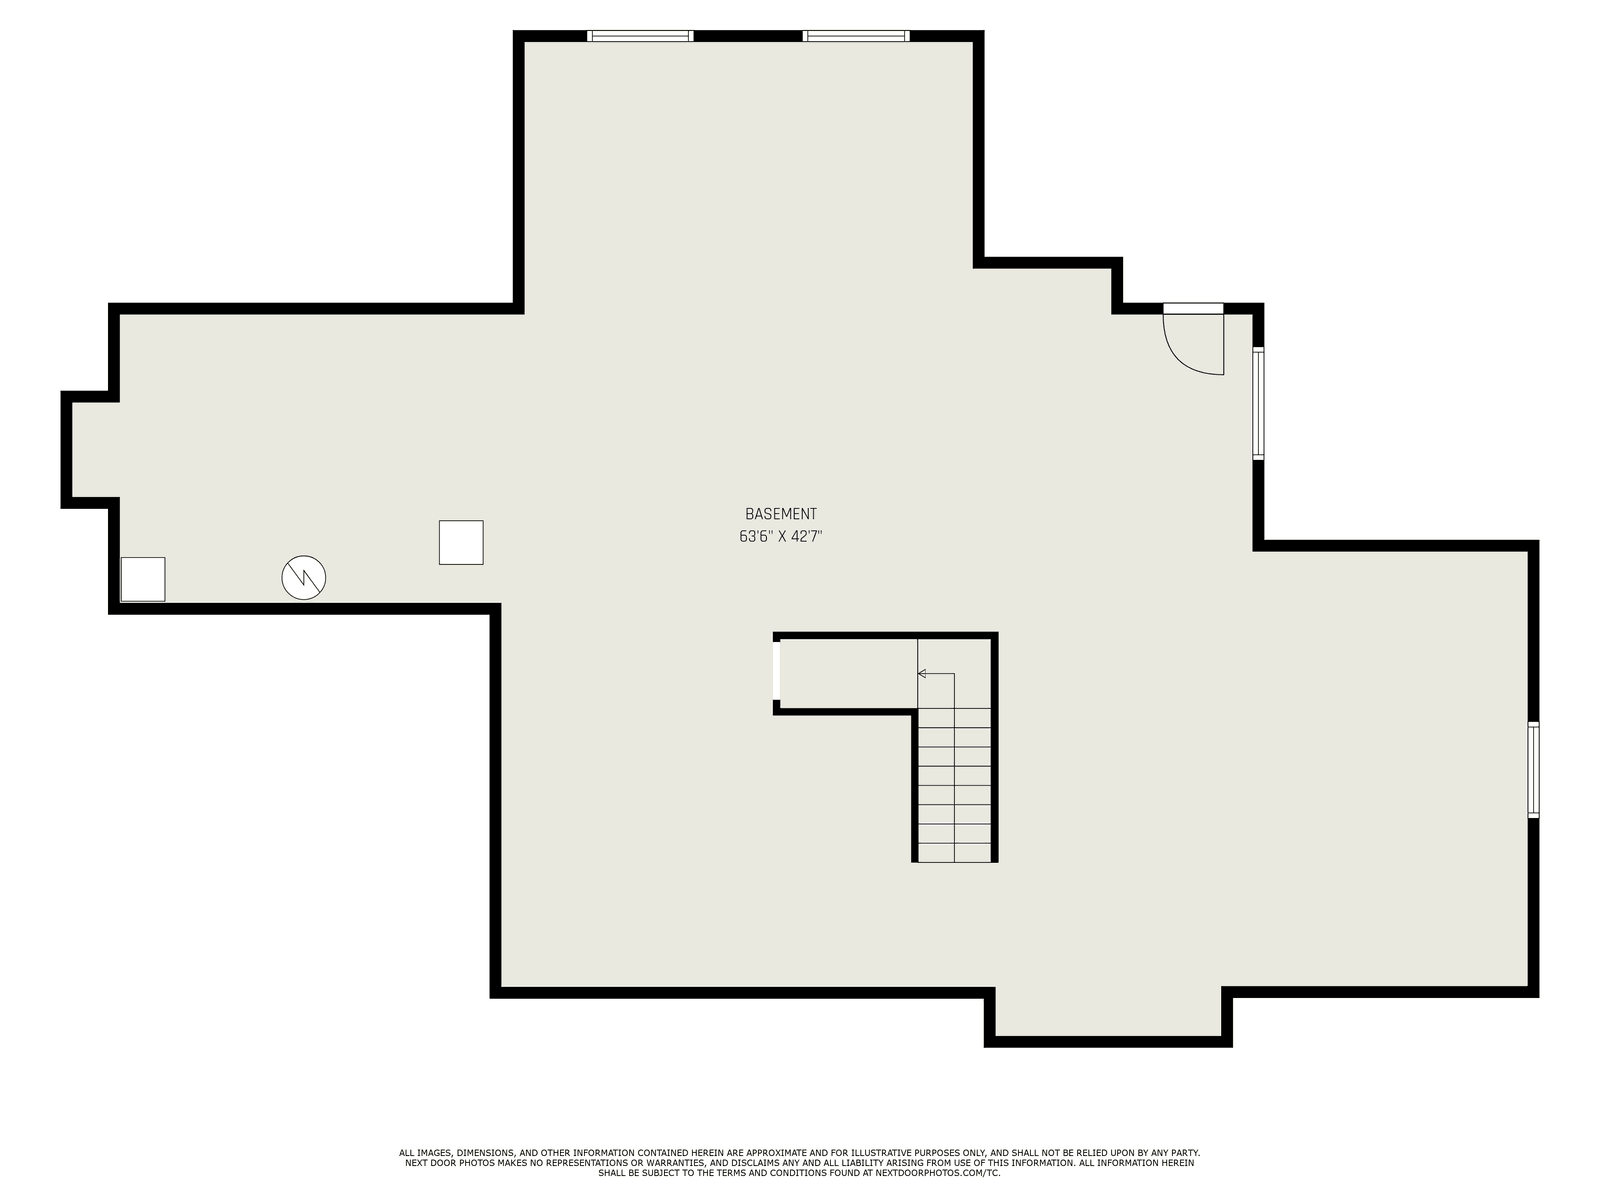
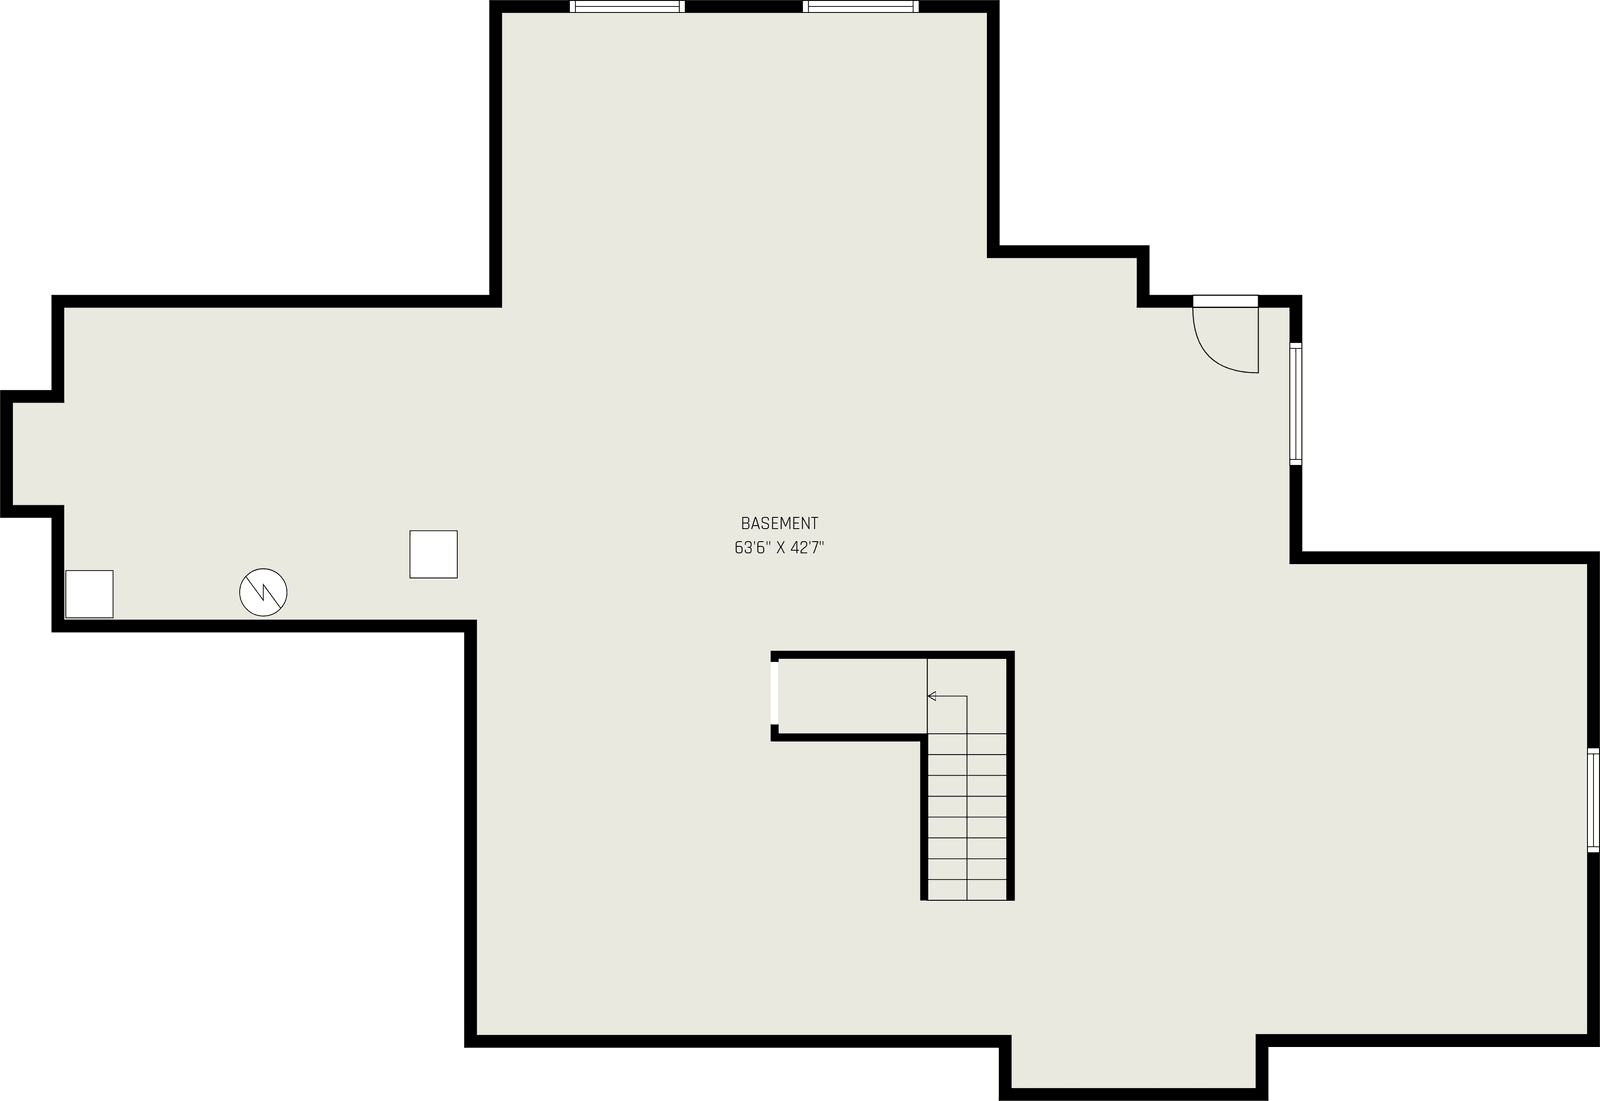
Say the price excludes the lot, and crop the photographer's footer
Leavitt confirmed the starting prices do not include the homesite, so the note
beside every price says so. It is the first thing a buyer assumes either way,
and assuming wrong is the difference between these figures and the real cost of
the house - worth a clause, not an inference.

Leavitt also confirmed they bought the floor plan photography outright, so the
Next Door Photos footer comes off. Nothing special was needed: those pages now
crop like every other sheet, and findDrawing keeps the drawing and drops the
furniture, footer included. `crop: false` is left only on the elevation, which
is a photograph with nothing to strip.

Checked the result rather than trusting the heights: the footer is gone from all
three sheets and the plans themselves are untouched.

Claude-Session: https://claude.ai/code/session_01H8a1CBUfLAD6mJjdsHtx4E

Changed region(s): [[0.0, 0.0, 1.0, 1.0], [0.4688, 0.4015, 0.5, 0.4941]]

diff --git a/plans/the-storyteller.html b/plans/the-storyteller.html
@@ -140,7 +140,7 @@
 
             <figure class="mb-16">
                 <h2 class="text-2xl md:text-3xl font-serif text-[#0f172a] mb-6">Basement Floor Plan</h2>
-                <picture class="contents"><source srcset="/plans/img/the-storyteller-floor-1.webp" type="image/webp"><img src="/plans/img/the-storyteller-floor-1.png" alt="The Storyteller basement floor plan drawing" width="1600" height="1200" loading="lazy" decoding="async" class="w-full h-auto bg-white border border-gray-200"></picture>
+                <picture class="contents"><source srcset="/plans/img/the-storyteller-floor-1.webp" type="image/webp"><img src="/plans/img/the-storyteller-floor-1.png" alt="The Storyteller basement floor plan drawing" width="1600" height="1101" loading="lazy" decoding="async" class="w-full h-auto bg-white border border-gray-200"></picture>
                 <figcaption class="mt-3 text-sm text-gray-500 flex flex-wrap items-baseline justify-between gap-x-6 gap-y-1">
                     <span>Dashed outlines mark optional features available for this plan.</span>
                     <!-- At phone width the drawing is ~360px wide and the room labels are
@@ -155,7 +155,7 @@
 
             <figure class="mb-16">
                 <h2 class="text-2xl md:text-3xl font-serif text-[#0f172a] mb-6">First Floor Plan</h2>
-                <picture class="contents"><source srcset="/plans/img/the-storyteller-floor-2.webp" type="image/webp"><img src="/plans/img/the-storyteller-floor-2.png" alt="The Storyteller first floor plan drawing" width="1600" height="1200" loading="lazy" decoding="async" class="w-full h-auto bg-white border border-gray-200"></picture>
+                <picture class="contents"><source srcset="/plans/img/the-storyteller-floor-2.webp" type="image/webp"><img src="/plans/img/the-storyteller-floor-2.png" alt="The Storyteller first floor plan drawing" width="1600" height="1222" loading="lazy" decoding="async" class="w-full h-auto bg-white border border-gray-200"></picture>
                 <figcaption class="mt-3 text-sm text-gray-500 flex flex-wrap items-baseline justify-between gap-x-6 gap-y-1">
                     <span>Dashed outlines mark optional features available for this plan.</span>
                     <!-- At phone width the drawing is ~360px wide and the room labels are
@@ -170,7 +170,7 @@
 
             <figure class="mb-16">
                 <h2 class="text-2xl md:text-3xl font-serif text-[#0f172a] mb-6">Second Floor Plan</h2>
-                <picture class="contents"><source srcset="/plans/img/the-storyteller-floor-3.webp" type="image/webp"><img src="/plans/img/the-storyteller-floor-3.png" alt="The Storyteller second floor plan drawing" width="1600" height="1200" loading="lazy" decoding="async" class="w-full h-auto bg-white border border-gray-200"></picture>
+                <picture class="contents"><source srcset="/plans/img/the-storyteller-floor-3.webp" type="image/webp"><img src="/plans/img/the-storyteller-floor-3.png" alt="The Storyteller second floor plan drawing" width="1600" height="1233" loading="lazy" decoding="async" class="w-full h-auto bg-white border border-gray-200"></picture>
                 <figcaption class="mt-3 text-sm text-gray-500 flex flex-wrap items-baseline justify-between gap-x-6 gap-y-1">
                     <span>Dashed outlines mark optional features available for this plan.</span>
                     <!-- At phone width the drawing is ~360px wide and the room labels are

diff --git a/plans/index.html b/plans/index.html
@@ -71,10 +71,7 @@
             Every sheet shows the optional features available for that model in dashed outline:
             in-law suites, conservatories, sunrooms, extended garages and finished lower levels.
         </p>
-        <!-- REVIEW: confirm whether these starting prices include the homesite. It is the
-             first question a buyer asks, and the sheet they came from does not say, so the
-             wording below deliberately claims neither. -->
-        <p class="text-sm text-gray-500 max-w-2xl mb-14">Starting prices are for the home without any optional features added, and are current as of September 2026. Talk to us about your homesite and we will price the version you actually want to build.</p>
+        <p class="text-sm text-gray-500 max-w-2xl mb-14">Starting prices are for the home without any optional features added, and do not include the homesite. Current as of September 2026. Talk to us about your homesite and we will price the version you actually want to build.</p>
 
         <h2 class="sr-only">Available plans</h2>
         <div class="grid grid-cols-1 sm:grid-cols-2 lg:grid-cols-3 gap-6">

diff --git a/plans/the-expressionist-i.html b/plans/the-expressionist-i.html
@@ -69,7 +69,7 @@
             <span class="text-[11px] font-bold uppercase tracking-[0.2em] text-gray-500 block mb-1">Starting price</span>
             <span class="text-3xl md:text-4xl font-light text-[#0f172a]">From $1,303,777</span>
         </p>
-        <p class="text-sm text-gray-500 max-w-2xl mb-12">Starting prices are for the home without any optional features added, and are current as of September 2026.</p>
+        <p class="text-sm text-gray-500 max-w-2xl mb-12">Starting prices are for the home without any optional features added, and do not include the homesite. Current as of September 2026.</p>
 
         
         <!-- The drawing carries its own caption, so no figcaption repeating it here.

diff --git a/plans/the-expressionist-ii.html b/plans/the-expressionist-ii.html
@@ -69,7 +69,7 @@
             <span class="text-[11px] font-bold uppercase tracking-[0.2em] text-gray-500 block mb-1">Starting price</span>
             <span class="text-3xl md:text-4xl font-light text-[#0f172a]">From $1,568,777</span>
         </p>
-        <p class="text-sm text-gray-500 max-w-2xl mb-12">Starting prices are for the home without any optional features added, and are current as of September 2026.</p>
+        <p class="text-sm text-gray-500 max-w-2xl mb-12">Starting prices are for the home without any optional features added, and do not include the homesite. Current as of September 2026.</p>
 
         
         <!-- The drawing carries its own caption, so no figcaption repeating it here.

diff --git a/plans/the-illustrator.html b/plans/the-illustrator.html
@@ -69,7 +69,7 @@
             <span class="text-[11px] font-bold uppercase tracking-[0.2em] text-gray-500 block mb-1">Starting price</span>
             <span class="text-3xl md:text-4xl font-light text-[#0f172a]">From $1,117,777</span>
         </p>
-        <p class="text-sm text-gray-500 max-w-2xl mb-12">Starting prices are for the home without any optional features added, and are current as of September 2026.</p>
+        <p class="text-sm text-gray-500 max-w-2xl mb-12">Starting prices are for the home without any optional features added, and do not include the homesite. Current as of September 2026.</p>
 
         
         <!-- The drawing carries its own caption, so no figcaption repeating it here.

diff --git a/plans/the-impressionist.html b/plans/the-impressionist.html
@@ -69,7 +69,7 @@
             <span class="text-[11px] font-bold uppercase tracking-[0.2em] text-gray-500 block mb-1">Starting price</span>
             <span class="text-3xl md:text-4xl font-light text-[#0f172a]">From $1,259,777</span>
         </p>
-        <p class="text-sm text-gray-500 max-w-2xl mb-12">Starting prices are for the home without any optional features added, and are current as of September 2026.</p>
+        <p class="text-sm text-gray-500 max-w-2xl mb-12">Starting prices are for the home without any optional features added, and do not include the homesite. Current as of September 2026.</p>
 
         
         <!-- The drawing carries its own caption, so no figcaption repeating it here.

diff --git a/plans/the-novel.html b/plans/the-novel.html
@@ -69,7 +69,7 @@
             <span class="text-[11px] font-bold uppercase tracking-[0.2em] text-gray-500 block mb-1">Starting price</span>
             <span class="text-3xl md:text-4xl font-light text-[#0f172a]">From $1,149,777</span>
         </p>
-        <p class="text-sm text-gray-500 max-w-2xl mb-12">Starting prices are for the home without any optional features added, and are current as of September 2026.</p>
+        <p class="text-sm text-gray-500 max-w-2xl mb-12">Starting prices are for the home without any optional features added, and do not include the homesite. Current as of September 2026.</p>
 
         
         <!-- The drawing carries its own caption, so no figcaption repeating it here.

diff --git a/plans/the-pioneer-i.html b/plans/the-pioneer-i.html
@@ -69,7 +69,7 @@
             <span class="text-[11px] font-bold uppercase tracking-[0.2em] text-gray-500 block mb-1">Starting price</span>
             <span class="text-3xl md:text-4xl font-light text-[#0f172a]">From $1,186,777</span>
         </p>
-        <p class="text-sm text-gray-500 max-w-2xl mb-12">Starting prices are for the home without any optional features added, and are current as of September 2026.</p>
+        <p class="text-sm text-gray-500 max-w-2xl mb-12">Starting prices are for the home without any optional features added, and do not include the homesite. Current as of September 2026.</p>
 
         
         <!-- The drawing carries its own caption, so no figcaption repeating it here.

diff --git a/plans/the-pioneer-ii.html b/plans/the-pioneer-ii.html
@@ -69,7 +69,7 @@
             <span class="text-[11px] font-bold uppercase tracking-[0.2em] text-gray-500 block mb-1">Starting price</span>
             <span class="text-3xl md:text-4xl font-light text-[#0f172a]">From $1,186,777</span>
         </p>
-        <p class="text-sm text-gray-500 max-w-2xl mb-12">Starting prices are for the home without any optional features added, and are current as of September 2026.</p>
+        <p class="text-sm text-gray-500 max-w-2xl mb-12">Starting prices are for the home without any optional features added, and do not include the homesite. Current as of September 2026.</p>
 
         
         <!-- The drawing carries its own caption, so no figcaption repeating it here.

diff --git a/plans/the-poet.html b/plans/the-poet.html
@@ -69,7 +69,7 @@
             <span class="text-[11px] font-bold uppercase tracking-[0.2em] text-gray-500 block mb-1">Starting price</span>
             <span class="text-3xl md:text-4xl font-light text-[#0f172a]">From $1,264,777</span>
         </p>
-        <p class="text-sm text-gray-500 max-w-2xl mb-12">Starting prices are for the home without any optional features added, and are current as of September 2026.</p>
+        <p class="text-sm text-gray-500 max-w-2xl mb-12">Starting prices are for the home without any optional features added, and do not include the homesite. Current as of September 2026.</p>
 
         
         <!-- The drawing carries its own caption, so no figcaption repeating it here.

diff --git a/plans/the-visionary.html b/plans/the-visionary.html
@@ -69,7 +69,7 @@
             <span class="text-[11px] font-bold uppercase tracking-[0.2em] text-gray-500 block mb-1">Starting price</span>
             <span class="text-3xl md:text-4xl font-light text-[#0f172a]">From $1,262,777</span>
         </p>
-        <p class="text-sm text-gray-500 max-w-2xl mb-12">Starting prices are for the home without any optional features added, and are current as of September 2026.</p>
+        <p class="text-sm text-gray-500 max-w-2xl mb-12">Starting prices are for the home without any optional features added, and do not include the homesite. Current as of September 2026.</p>
 
         
         <!-- The drawing carries its own caption, so no figcaption repeating it here.

diff --git a/plans/the-craftsman.html b/plans/the-craftsman.html
@@ -69,7 +69,7 @@
             <span class="text-[11px] font-bold uppercase tracking-[0.2em] text-gray-500 block mb-1">Starting price</span>
             <span class="text-3xl md:text-4xl font-light text-[#0f172a]">From $773,777</span>
         </p>
-        <p class="text-sm text-gray-500 max-w-2xl mb-12">Starting prices are for the home without any optional features added, and are current as of September 2026.</p>
+        <p class="text-sm text-gray-500 max-w-2xl mb-12">Starting prices are for the home without any optional features added, and do not include the homesite. Current as of September 2026.</p>
 
         
         <!-- The drawing carries its own caption, so no figcaption repeating it here.
